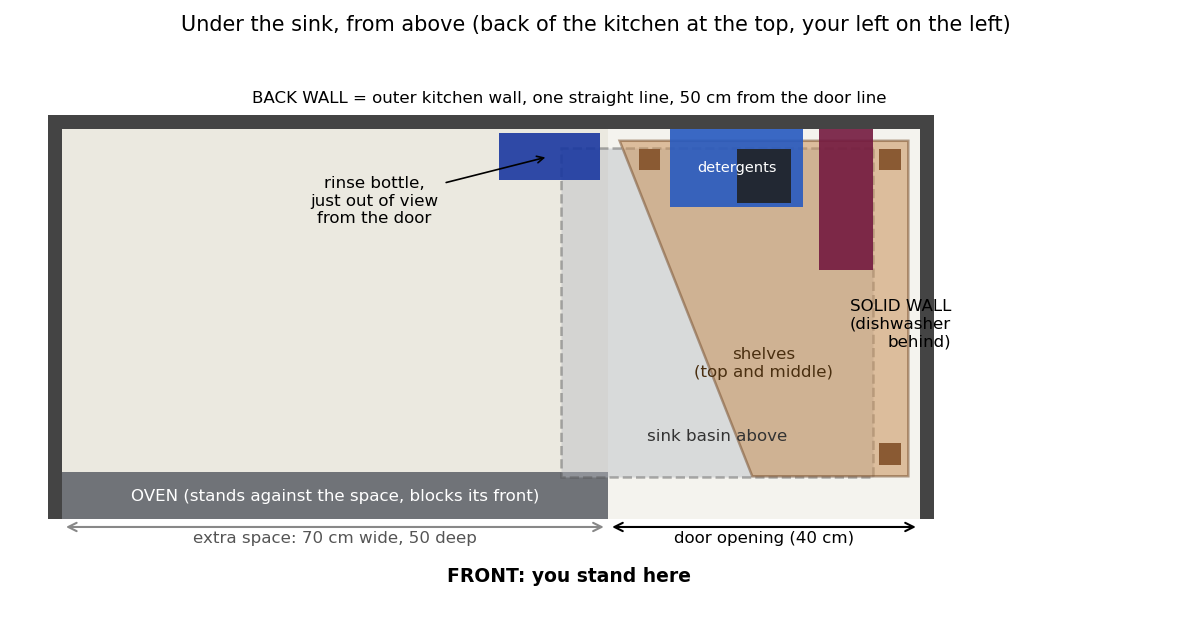
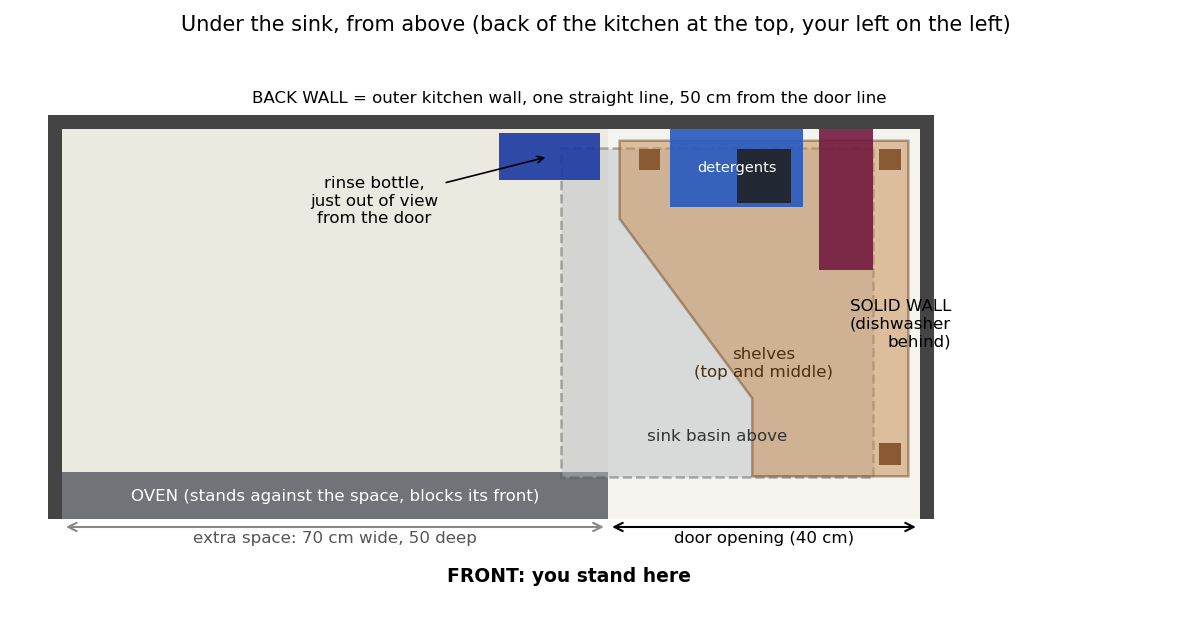
Misc shelf v9: left edge keeps 10 cm straight at the back and front; Castorama prices re-checked

Changed region(s): [[0.4966, 0.2452, 0.5898, 0.5516], [0.5898, 0.5516, 0.6518, 0.7661]]

diff --git a/misc/shelf/index.html b/misc/shelf/index.html
@@ -77,8 +77,8 @@
     <table>
       <tr><th>Item</th><th>v2</th><th>v5 (current)</th><th>Why</th></tr>
       <tr><td>Shape</td><td>Right isosceles triangle, 380 mm legs</td>
-        <td>Right trapezoid: 370 back edge, 430 deep, 200 front edge, steeper diagonal (about 68° to the back). Area 1226 cm², up from 722 cm².</td>
-        <td>More flat surface at the back, and the front-left stays open for reach.</td></tr>
+        <td>Six sides: 370 mm back edge, 430 deep, 200 front edge. The left edge runs straight for 100 mm at the back and for 100 mm at the front, with the diagonal (about 36° off straight) over the 230 mm between. Area 1226 cm², up from 722 cm².</td>
+        <td>The back keeps its full width for longer, and the front-left is cut away sooner, so it is easier to reach past the front of the shelf into the extra space on the left.</td></tr>
       <tr><td>Middle shelf height</td><td>120 mm underside</td>
         <td><strong>300 mm underside</strong>, 300 mm clear space below</td>
         <td>Room under it for the detergents standing upright (240 mm and 200 mm tall).</td></tr>
@@ -100,7 +100,7 @@
     <table>
       <tr><th>Part</th><th>Qty</th><th>Size (mm)</th><th>Notes</th></tr>
       <tr><td>Pine board</td><td>1</td><td>40 × 200 × 1.8 cm</td><td>Castorama PPA18400. Both shelves fit in one 400 × 860 mm piece, with about 1.1 m spare.</td></tr>
-      <tr><td>Middle shelf</td><td>1</td><td>370 back, 430 deep, 200 front × 18</td><td>Cut from a 370 × 430 mm rectangle. Keep the corners square.</td></tr>
+      <tr><td>Middle shelf</td><td>1</td><td>370 back, 430 deep, 200 front × 18</td><td>Cut from a 370 × 430 mm rectangle. Cut away the left front corner: mark 100 mm in from the back along the left edge, 100 mm in from the front, and join the two points with one straight saw cut. Keep the other corners square.</td></tr>
       <tr><td>Top shelf</td><td>1</td><td>Same outline, notch 100 × 70 mm at the back</td><td>Drill two corner holes in the notch, then saw it out with a coping saw.</td></tr>
       <tr><td>Base posts</td><td>3</td><td>27 × 27 × 300</td><td>Under the middle shelf.</td></tr>
       <tr><td>Middle posts</td><td>3</td><td>27 × 27 × 182</td><td>Between the shelves.</td></tr>
@@ -138,7 +138,7 @@
       <tr><td>Boiled linseed oil 1 L</td><td>Castorama "Huile de lin pour protéger Phébus 1 L" product page.</td><td>€8.79</td><td><span class="tag ok">buy</span></td></tr>
             <tr><td>Coping saw, brackets, glue, clamps</td><td>Not found in the Castorama search.</td><td>—</td><td><span class="tag gap">not checked</span></td></tr>
     </table>
-    <p class="note">Stock at the Palaiseau store was not verified: the product pages ask for a postal code. Check the store, or castorama.fr with Palaiseau selected. Prices are from the product pages; the baguette's search snippet showed €7.89, the page €8.69.</p>
+    <p class="note">Prices on all four product pages were re-checked in the browser on 16 Oct 2026 and match the table. Note that the batten page lists "Bord incliné" (a bevelled edge profile), so the posts will have slightly eased edges. Stock at the Palaiseau store was not verified: the product pages ask for a postal code. Check the store, or castorama.fr with Palaiseau selected. Prices are from the product pages; the baguette's search snippet showed €7.89, the page €8.69.</p>
   </div>
 
   <h2>7. Screws</h2>

diff --git a/misc/shelf/build_model.py b/misc/shelf/build_model.py
@@ -52,8 +52,9 @@ Z_UP = 500           # underside of top shelf: 50 cm off the floor
 TOP = Z_UP + T       # 518
 
 # Flat back, steeper front-left slope toward the extra space (plan view, x, y in mm).
-# Lower shelf: right-trapezoid, 370 back edge, 200 front edge, 430 deep.
-OUTLINE_LOW = [(15, 15), (385, 15), (215, 445), (15, 445)]
+# Lower shelf (v9): 370 back edge, 200 front edge, 430 deep. The left edge keeps a 100 mm straight
+# run at the back (y 15..115) and at the front (y 345..445), with the diagonal between them.
+OUTLINE_LOW = [(15, 15), (385, 15), (385, 115), (215, 345), (215, 445), (15, 445)]
 # Upper shelf: same outline (the standpipe and its notch were removed in v4).
 OUTLINE_UP = OUTLINE_LOW
 
@@ -309,7 +310,7 @@ def build():
     return dict(units="mm", cabinet=CAB, height=TOP, basin_z=BASIN_Z,
                 outline_low=[rot((x, y, 0))[:2] for x, y in OUTLINE_LOW],
                 outline_up=[rot((x, y, 0))[:2] for x, y in OUTLINE_UP], parts=parts,
-                dims=dict(lower_area_mm2=round(0.5 * (370 + 200) * 430),
+                dims=dict(lower_area_mm2=round(abs(signed_area(OUTLINE_LOW))),
                           post_cut_mm=3 * Z_LOW + 3 * (Z_UP - Z_LOW - T)))
 
 
